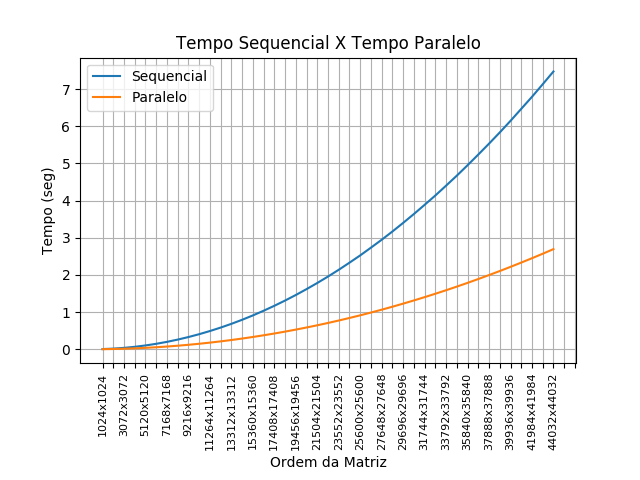
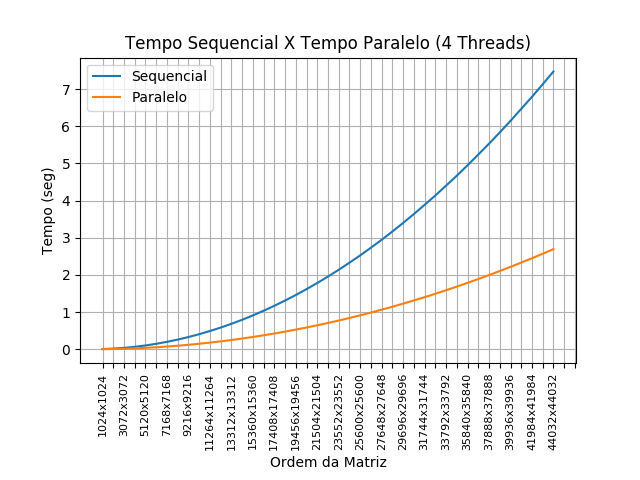
Corrigindo informações dos gráficos

Changed region(s): [[0.1875, 0.0625, 0.8438, 0.125]]

diff --git a/resultados/gerarGraficos.py b/resultados/gerarGraficos.py
@@ -106,7 +106,7 @@ def main():
 	#GRÁFICO DE TEMPO SEQUENCIAL X TEMPO PARALELO
 	gs = gridspec.GridSpec(2, 1, height_ratios=[10, 1]) 
 	plt.subplot(gs[0])
-	plt.title("Tempo Sequencial X Tempo Paralelo")
+	plt.title("Tempo Sequencial X Tempo Paralelo (4 Threads)")
 	plt.grid(True)
 	plt.ylabel("Tempo (seg)")
 	plt.xlabel("Ordem da Matriz")
@@ -121,7 +121,7 @@ def main():
 	#GRÁFICO DE DESVIO PADRÃO SEQUENCIAL X DESVIO PADRÃO PARALELO
 	gs = gridspec.GridSpec(2, 1, height_ratios=[10, 1]) 
 	plt.subplot(gs[0])
-	plt.title("Desvio Padrão Sequencial X Desvio Padrão Paralelo")
+	plt.title("Desvio Padrão Sequencial X Desvio Padrão Paralelo (4 Threads)")
 	plt.grid(True)
 	plt.ylabel("Desvio Padrão")
 	plt.xlabel("Ordem da Matriz")
@@ -155,7 +155,7 @@ def main():
 	plt.subplot(gs[0])
 	plt.title("Gráfico de SpeedUP")
 	plt.grid(True)
-	plt.ylabel("Eficiência")
+	plt.ylabel("Eficiência (%)")
 	plt.xlabel("Ordem da Matriz")
 	plt.xticks(ticks, ordemMatriz, fontsize=8, rotation=90)
 	
